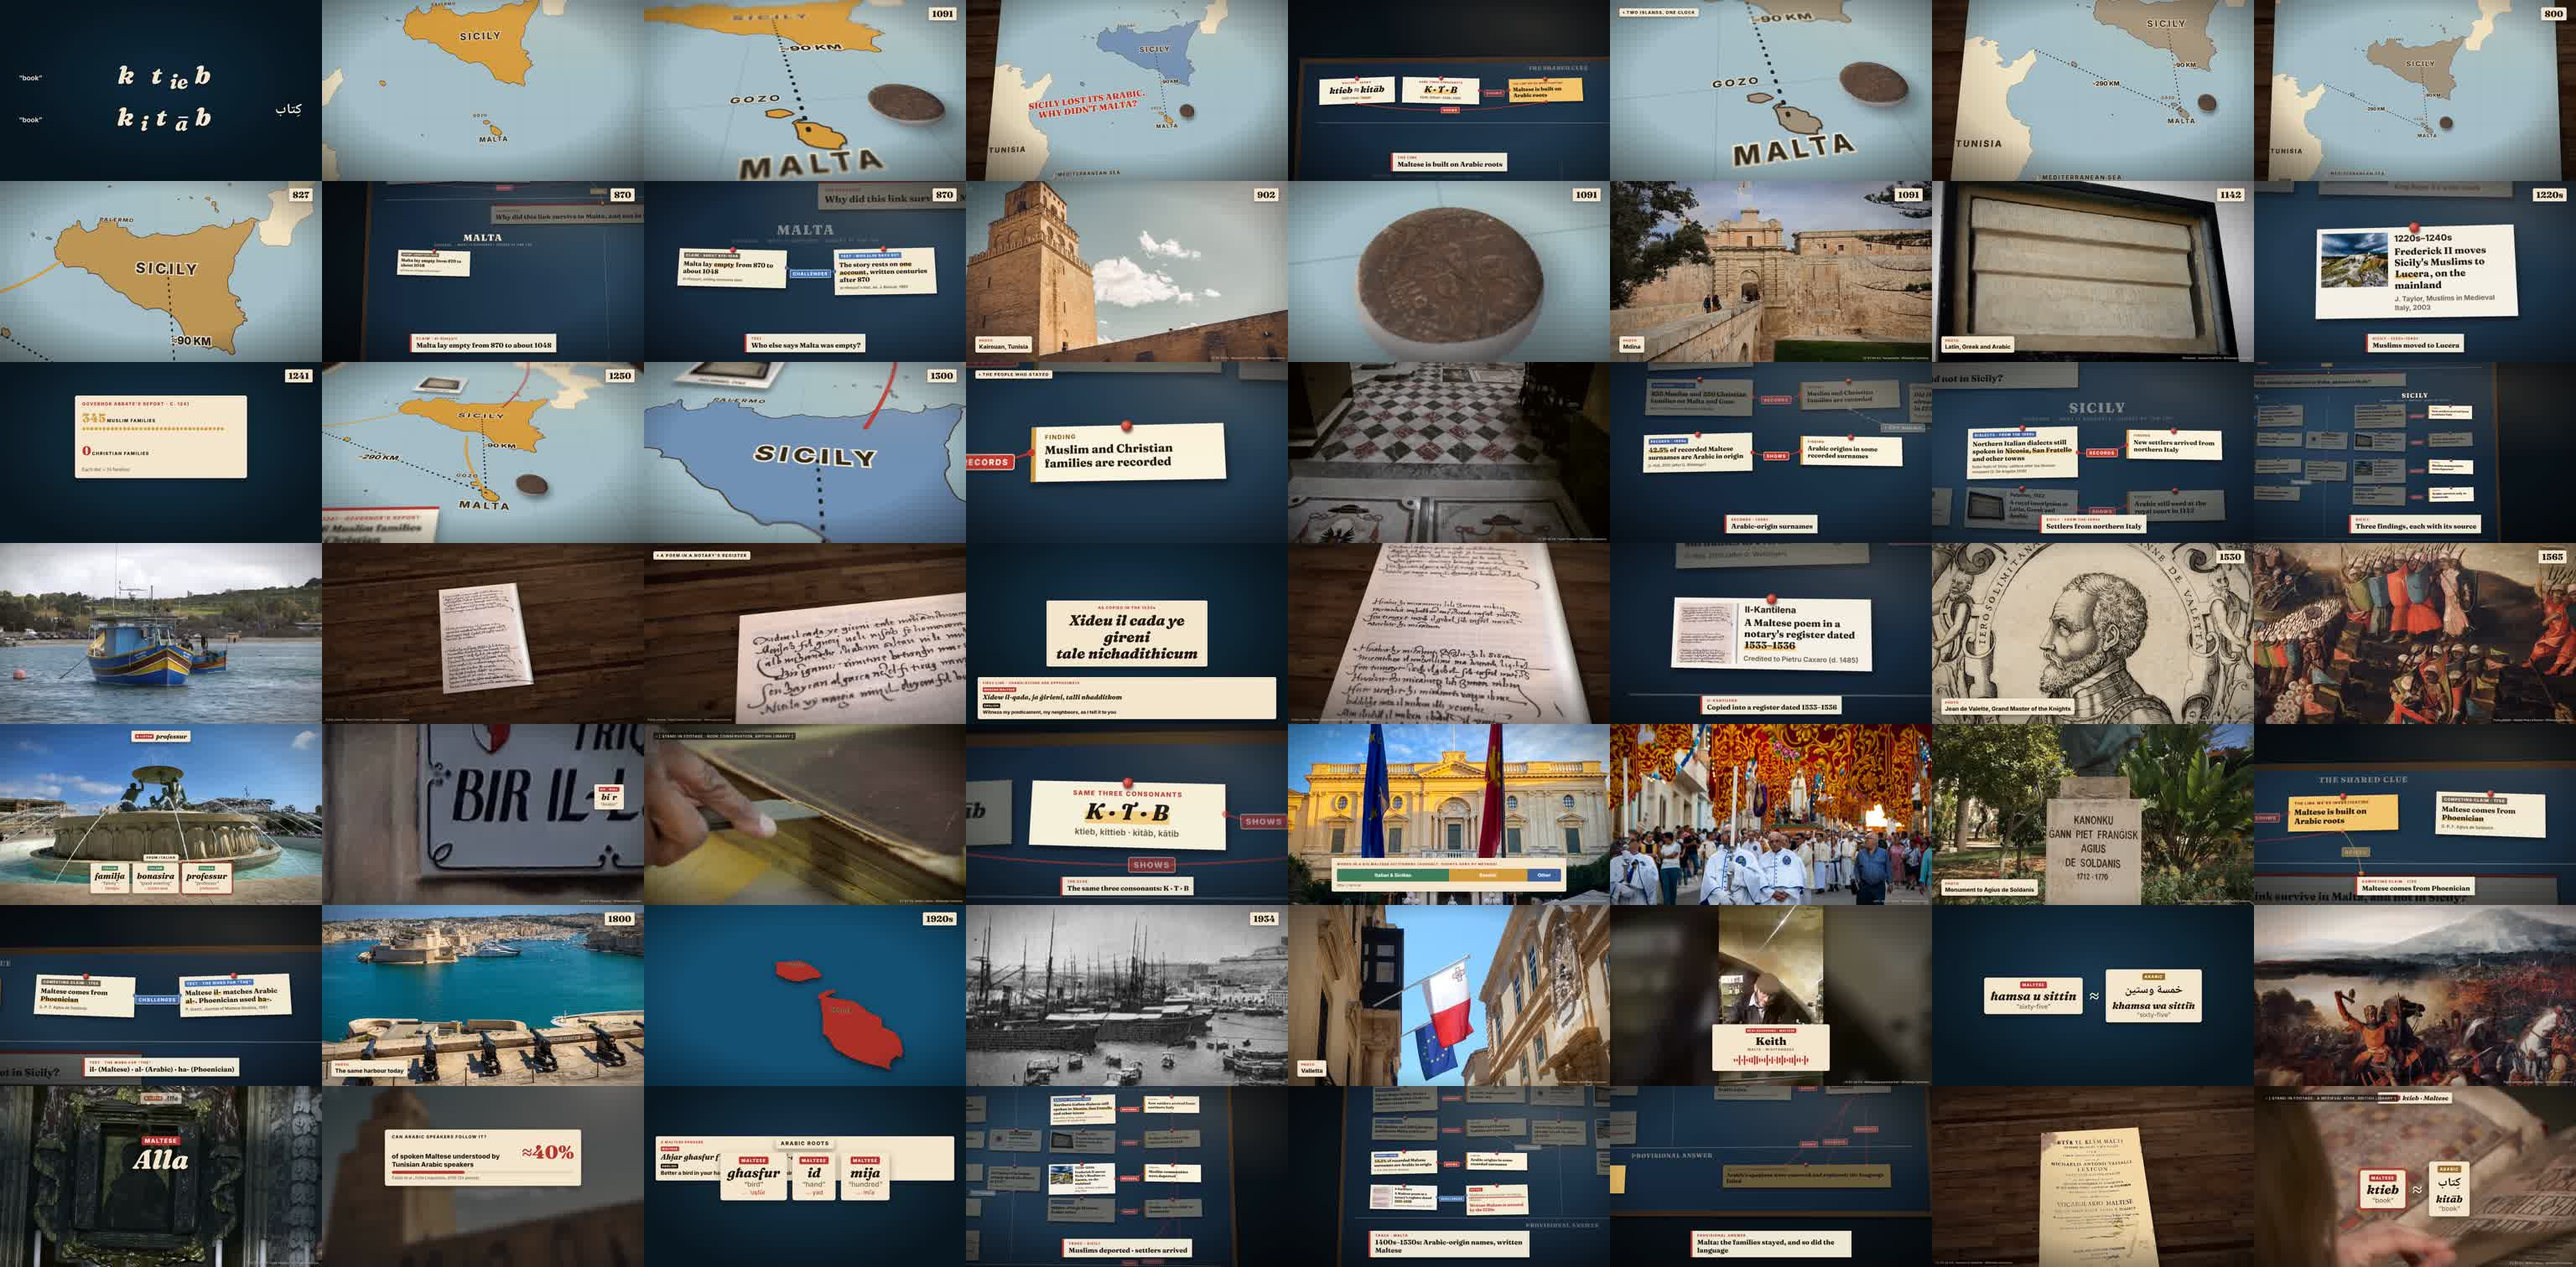
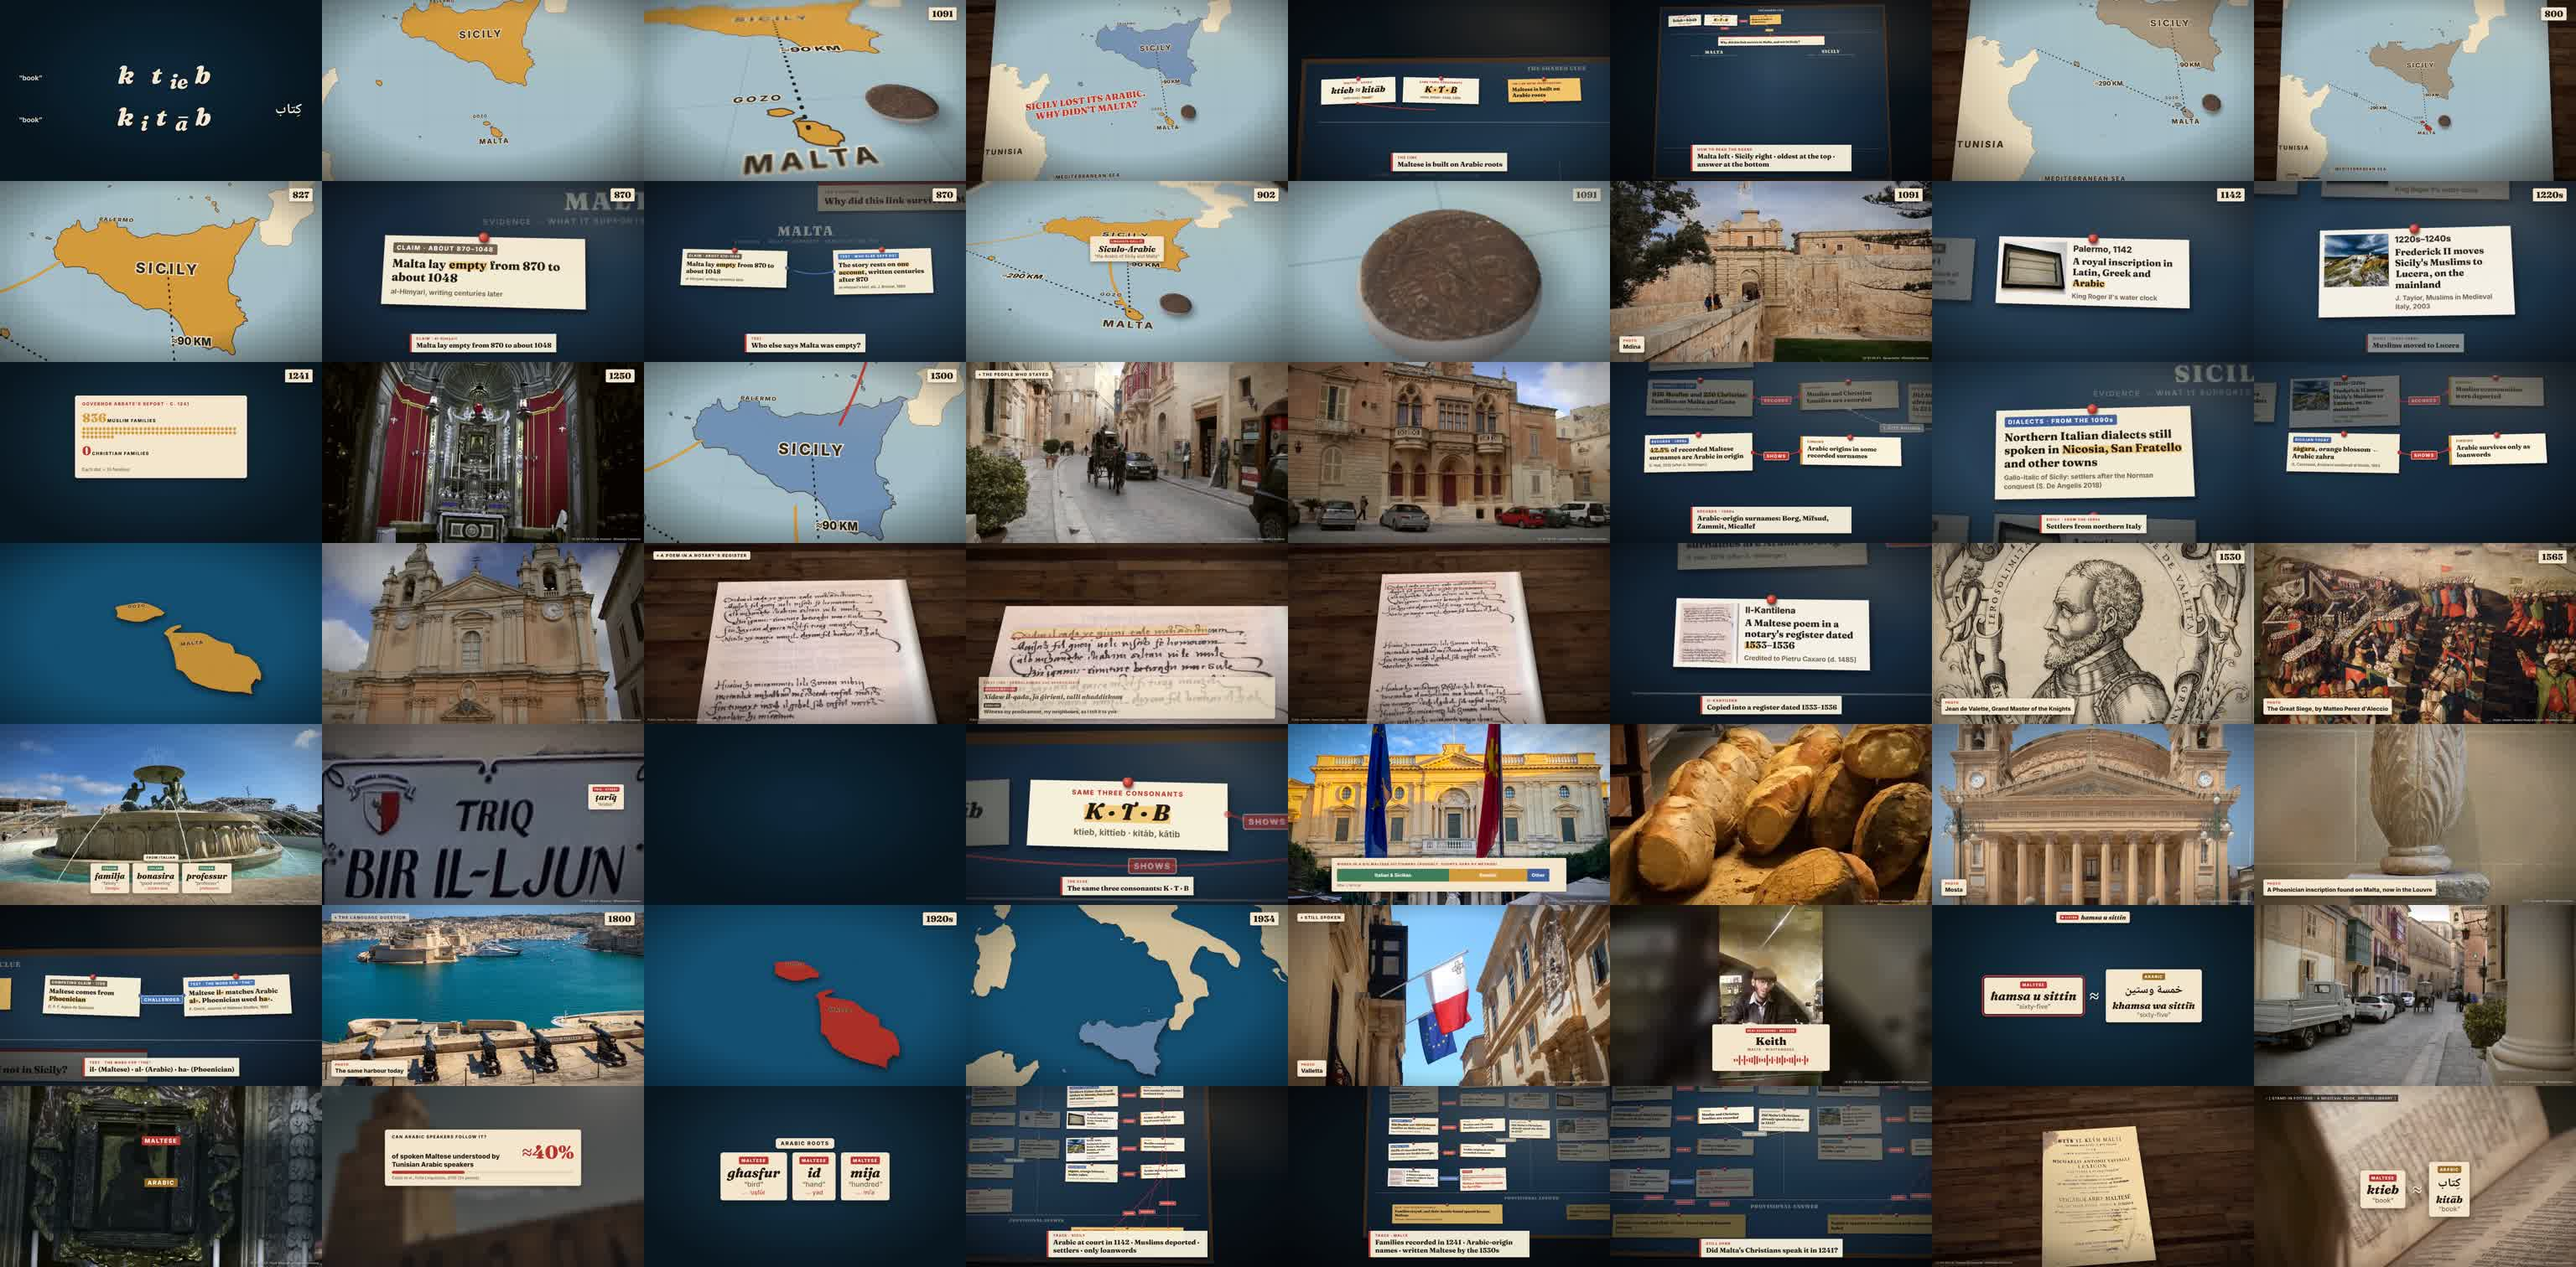
Malta v5: final render QA and change list (pacing round)
Claude-Session: https://claude.ai/code/session_01JteZbjgJzANfm9zkD8PK4e

diff --git a/lingo/longform/malta4/CHANGES_v5.md b/lingo/longform/malta4/CHANGES_v5.md
@@ -1,4 +1,4 @@
-# Malta v5: what changed from v4 (`out/malta4_v5.mp4`, 9:23)
+# Malta v5: what changed from v4 (`out/malta4_v5.mp4`, 9:24)
 
 Render: `node longform4.mjs malta4 --voice am_fenrir --out malta4_v5`. Sources for every board string: `sources_v5.md`.
 
@@ -61,6 +61,21 @@ PROVISIONAL ANSWER band at the bottom.
 - The film opened on 0.3 s of map before the first shot, then a few frames of the woman's shirt (the source cut is at about 12.45 s). The first shot now covers the lead-in and starts at 12.52 s.
 - When the board cut in from footage, it showed empty for 0.15–0.3 s before the card popped in (2:06, 2:40, 3:30, 3:39, 4:53, 6:27). On a cut-in, a card due in the first half second is already landing on the first frame. Same for objects dropped on the table (2:22).
 - QA's flash check also lists motion inside a shot (candle flicker, boats, fire); each candidate was checked by eye on a frame sheet.
+
+## Second round of owner notes (pacing, sound), applied in the final v5 render
+| Note | Fix |
+|---|---|
+| "You switch too quickly between map and images… keep a shot 4 to 5 seconds… revert to the speed of the first video" (malta3_v3, but without its long map holds) | 203 shots → 115, average 4.9 s; most shots 4–7 s, map/table shots 6 s or less. Each line keeps its strongest picture (`keep: [...]` in episode.mjs); short lines continue the previous shot. |
+| Board steps too fast (2:30) | One board shot per piece of evidence: close on the card (highlight), hold, then a glide wide as the labelled string draws and the finding is pinned (`from`, `glideAt`, `add2`). |
+| Document: "4 hard cuts on document zooms, it should just zoom in once and then show the sentence; the highlight should go sideways" | p7 one slow push; m1 ONE zoom from the page into the first line; m2–m3 a 10 s reading hold while the highlight runs left to right along the line, tilted to the handwriting's slope (−1.1°); m4 a slow push to ġirieni; m5 one pull back to the page. |
+| "Background sound of book flipping / scratching by error in all the video, delete it" | The table/board/desk beds (page and pencil recordings) are removed, with the pencil sound on rewrites and the paper sound on prints. Only Foley tied to a visible event stays: the page turn in the opening shot, card pins, the coin. |
+| "The coin sound is delayed" | Objects now fall with gravity and hit the table at 0.42 s; the coin sound is placed on the hit (the clip's impact is 0.11 s in). |
+| "First scene is a map at 0:00, start with the video directly" | The first shot covers the lead-in; the opening page turn plays slowly (0.45×) as one 4.6 s shot. |
+| "0:38: he jumps quickly… should mark a stop" | "Start with the clue." is its own line with a 0.9 s pause, the camera held on the clue card. |
+| "The highlight is not high enough on K·T·B" | Highlighter band raised and taller (60 % of the line height). |
+| 8:24: the proverb card overwrote the Arabic-roots cards | The proverb card now ends with its own line. |
+
+QA of the final render: −16.23 LUFS, phone speaker 91 %, no flashes (the 9 one-frame candidates are double detections of a single cut, checked by eye), longest shot 10.3 s (the reading hold on the first line of the poem).
 
 ## Could not do
 - No specific counterevidence to the empty-island claim met the bar: the archaeology claim on Wikipedia (Blouet 2007 p. 41) carries a "verify source" tag. The board challenges the claim on its sourcing instead and says the gap is uncertain.
